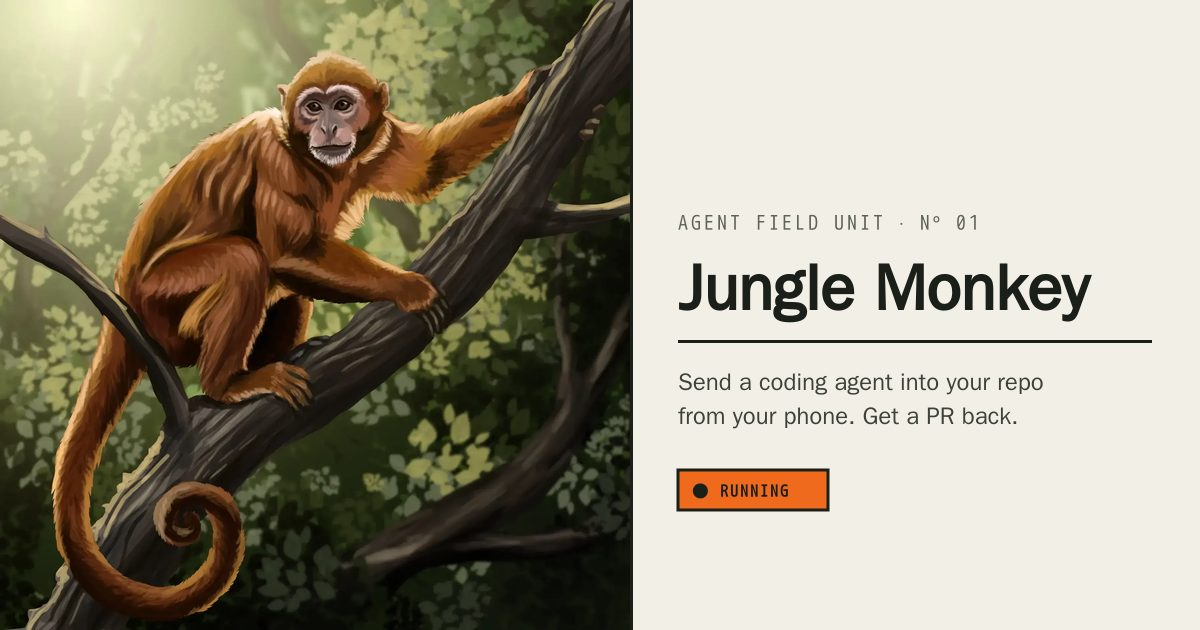
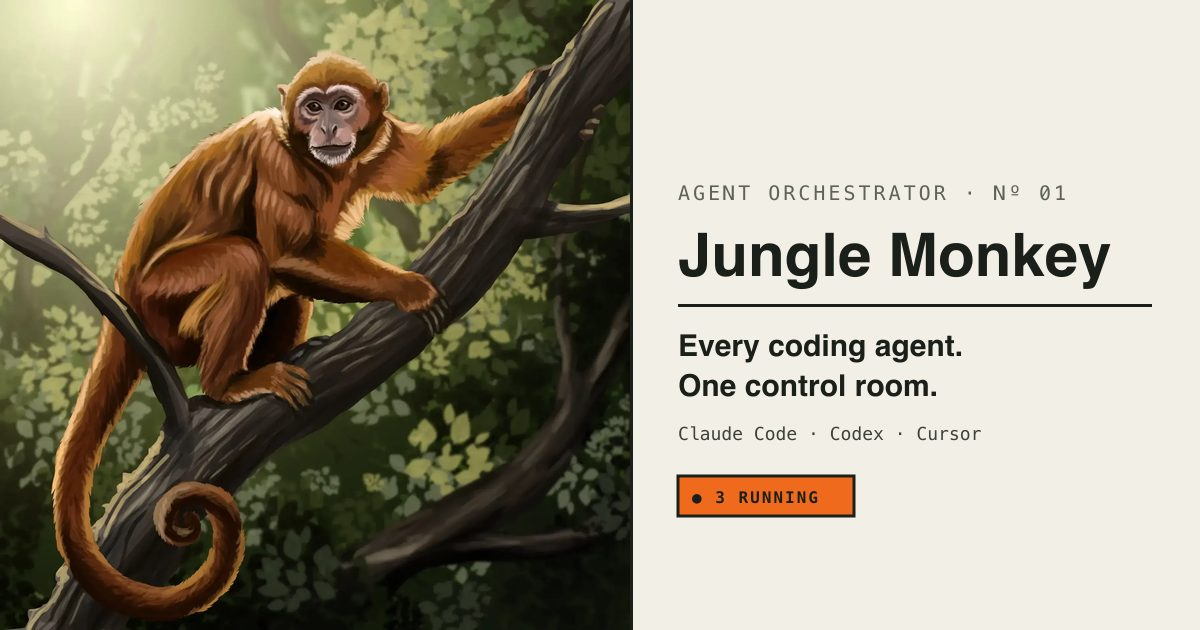
brand: orchestrator OpenGraph card; record the landing repositioning
Regenerates only jungle-monkey-og.jpg from brand-assets.mjs (the other
assets the script rewrites are unchanged in content and left alone).

Changed region(s): [[0.555, 0.3016, 0.9558, 0.8444], [0.8325, 0.3016, 0.8942, 0.3317]]

diff --git a/docs/DECISIONS.md b/docs/DECISIONS.md
@@ -368,7 +368,7 @@ One line each. "Backend ask" marks something Fleetpocket should add.
 - The task list summary strip keeps the real server-side groups (Active / PR open / Done / Failed, `?group=`) instead of the brief's ALL / ACTIVE / ASKING / DONE: there is no "all" or "asking" group in the API, and waiting tasks are already pinned first with a dashed border. Counts per cell are not shown because the list endpoint returns no per-group totals.
 - Mobile bottom bar has three tabs (Tasks / Projects / Settings); New moved to the task list header (and the top of the desktop rail). Task numbers are the zero-padded task id (`0142`).
 - Kept `--olive-text` (#3f5a2e light / #9fc27f dark) next to the brief's palette: olive `#3F5A2E` as text on the dark ground is below 4.5:1.
-- Prompt library (brief section 5) is not implemented; the landing and README do not mention it until it ships (schedules take free-text prompts). Skill library: server, API, runner and web screens have shipped (see the 2026-11-17 Skill library web entry), so the README and the landing page list it (feature 9).
+- Prompt library (brief section 5) is not implemented; the landing and README do not mention it until it ships (schedules take free-text prompts). Skill library: server, API, runner and web screens have shipped (see the 2026-11-17 Skill library web entry), so the README lists it under Orchestration; the landing mentions skills only in "Any agent" since the orchestrator repositioning.
 
 
 - 2026-11-17 — CI auto-fix: the CI stamp sits next to the status stamp in the task header (dashed "ask" tone for needs you); the held-fix question card is answerable on a `pr_open` task when `autofix_state` is `held`. Project overrides use a three-way select (default/on/off) because null means "inherit the global default". The mock seeds tasks 10 (green after one fix) and 11 (held fix) with older timestamps so the existing screenshots and e2e ids stay the same.
@@ -408,6 +408,7 @@ One line each. "Backend ask" marks something Fleetpocket should add.
 
 - 2026-11-16 — `/setup` renders outside `AuthGate` (no owner, so no session, exists yet) and draws the TOTP QR code client-side with `qrcode`; `AuthGate` shows `409 setup_required` as "open the setup link from the server log".
 - 2026-11-17 — **Landing** (`index.html`, static, vanilla JS, no external scripts): hero with the static brand stamp logo (`docs/brand/jungle-monkey-stamp-512.png`; the animated inline-SVG monkey was removed in favour of the real logo); three ARIA install tabs with Copy and the comparison table; a scripted phone demo (question card, GitHub PR or local `⎇ BRANCH READY` ending); the node view with a TERMINAL | NODE switch; the system map with a blocked host at the egress proxy; the feature grid. Every animation is CSS or `requestAnimationFrame`, paused off-screen with IntersectionObserver and replaced by its final state under `prefers-reduced-motion`; demo announcements go through one throttled `aria-live` region. Lighthouse mobile (light mode): 100/100/100 for performance, accessibility and best practices. The demo uses the server's real branch names (`jm/42-…` locally, `agent/42-…` on GitHub) rather than the zero-padded `jm/0042-…` of the brief, because copy must match what the code does; docs are linked through `github.com/…/blob/main/…` (Pages would serve raw Markdown). The Skill library card and README bullet came with the merge of its web screens from main; phone access is "not yet" for local mode (the Host check rejects tunnels).
+- 2026-11-17 — **Landing, orchestrator repositioning** (supersedes the hero, phone demo and feature grid of the entry above): the hero is "Every coding agent. One control room." with a mini canvas of three task nodes in the web canvas node style (status light, glyph, verb + target, READ/WEB/EDIT/SHELL/GIT lanes, cost, a status stamp) instead of the stamp logo; the logo stays in the nav and footer. Claude Code ends in the dashed "asks you" state because only Claude asks questions (Codex and Cursor list open questions in the summary); Codex and Cursor show `≈` costs because theirs are estimated. It reuses the one rAF demo engine (a `hold` flag backs its Pause button, required for content that moves for more than 5 s), announces each end state once through the throttled `aria-live` region, and shows the final states under `prefers-reduced-motion`. Sections follow the owner's order: Any agent, Orchestration (queue and concurrency, server or computers, budgets, CI auto-fix, MCP gateway, schedules and loops), See every agent work, Sealed by design, Install, Steer from anywhere. The scripted phone demo and the Checkpoints, Local repos, Skill library and Ideas cards were dropped to keep the page on the new story (local branch delivery stays in Install, Ideas in Steer from anywhere). Concurrency copy says what the scheduler does: `MAX_CONCURRENT_TASKS` for the server plus each node's `max_concurrent`, no per-project limit; budgets copy names only the monthly caps, because the per-run `max_budget_usd` is enforced by the Claude SDK alone. Lighthouse mobile (light mode, local server): 100/100/100/100.
 
 - 2026-11-17 — Local repositories (web): hooks in `src/api/local.ts`, strings in `src/i18n/local.ts`, screens in `src/local/`, like the checkpoints and costs modules; onboarding is a lazy `/welcome` route outside the shell, not part of `/setup` (local mode has a session from the CLI's link, no owner setup).
 - 2026-11-17 — Onboarding redirects only the first screen (`/`) while no project has a local repository, and "Skip to the app" / the first task end it for the page load, so deep links and a skipped onboarding are never trapped; GitHub is step 4 of 5 with Skip.
